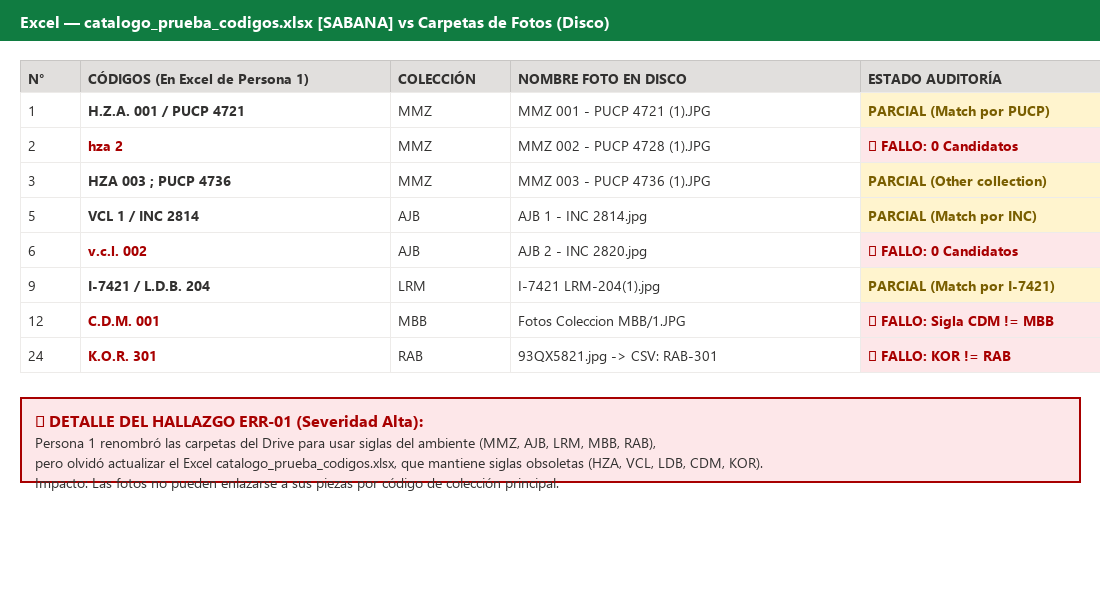
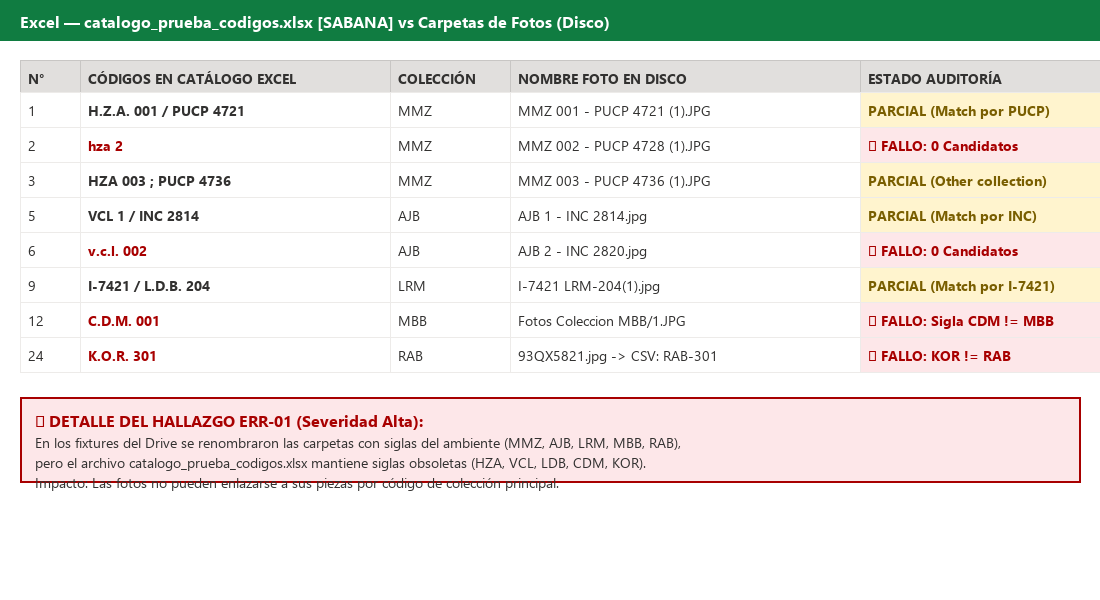
docs(qa): informe de pruebas y lista de errores en fixtures de fotos

Changed region(s): [[0.0309, 0.72, 0.7109, 0.78], [0.1236, 0.12, 0.2782, 0.15]]

diff --git a/scripts/generar_capturas_visuales.py b/scripts/generar_capturas_visuales.py
@@ -42,8 +42,8 @@ def create_terminal_screenshot(out_path):
     lines = [
         ("PS C:\\Users\\Mathias\\Documents\\DP2\\MATP-PUCP> node scripts/py.mjs apps/api ../../scripts/generar_evidencias_qa.py", "#e6e6e6", fonts["mono"]),
         ("================================================================================", "#555555", fonts["mono_sm"]),
-        ("  REPORTE AUTOMATIZADO DE EVIDENCIAS TECNICAS DE QA (PERSONA 5)", "#00ffff", fonts["mono_bold"]),
-        ("  Sistema de Gestión MATP - PUCP | DP2 1INF47 Grupo 04 | 2026-11-04 22:59", "#888888", fonts["mono_sm"]),
+        ("  REPORTE AUTOMATIZADO DE EVIDENCIAS TECNICAS DE QA", "#00ffff", fonts["mono_bold"]),
+        ("  Sistema de Gestión MATP - PUCP | DP2 1INF47 Grupo 04 | 2026-11-04 23:25", "#888888", fonts["mono_sm"]),
         ("================================================================================", "#555555", fonts["mono_sm"]),
         ("Total imágenes detectadas en disco: 34", "#cccccc", fonts["mono"]),
         ("", "#ffffff", fonts["mono"]),
@@ -92,7 +92,7 @@ def create_excel_mismatch_screenshot(out_path):
     draw.text((20, 10), "Excel — catalogo_prueba_codigos.xlsx [SABANA] vs Carpetas de Fotos (Disco)", fill="#ffffff", font=fonts["subtitle"])
     
     # Tabla Excel
-    headers = ["N°", "CÓDIGOS (En Excel de Persona 1)", "COLECCIÓN", "NOMBRE FOTO EN DISCO", "ESTADO AUDITORÍA"]
+    headers = ["N°", "CÓDIGOS EN CATÁLOGO EXCEL", "COLECCIÓN", "NOMBRE FOTO EN DISCO", "ESTADO AUDITORÍA"]
     col_widths = [60, 310, 120, 350, 240]
     
     x_start, y_start = 20, 60
@@ -132,8 +132,8 @@ def create_excel_mismatch_screenshot(out_path):
     draw.rectangle([(20, alert_box_y), (w - 20, alert_box_y + 85)], fill="#fde7e9", outline="#a80000", width=2)
     draw.text((35, alert_box_y + 12), "🔴 DETALLE DEL HALLAZGO ERR-01 (Severidad Alta):", fill="#a80000", font=fonts["subtitle"])
     explanation = (
-        "Persona 1 renombró las carpetas del Drive para usar siglas del ambiente (MMZ, AJB, LRM, MBB, RAB),\n"
-        "pero olvidó actualizar el Excel catalogo_prueba_codigos.xlsx, que mantiene siglas obsoletas (HZA, VCL, LDB, CDM, KOR).\n"
+        "En los fixtures del Drive se renombraron las carpetas con siglas del ambiente (MMZ, AJB, LRM, MBB, RAB),\n"
+        "pero el archivo catalogo_prueba_codigos.xlsx mantiene siglas obsoletas (HZA, VCL, LDB, CDM, KOR).\n"
         "Impacto: Las fotos no pueden enlazarse a sus piezas por código de colección principal."
     )
     draw.text((35, alert_box_y + 35), explanation, fill="#323130", font=fonts["body"])
@@ -261,8 +261,8 @@ def create_dhash_resolution_screenshot(out_path):
     print(f"Generado: {out_path}")
 
 def main():
-    out_dir = Path(__file__).resolve().parent.parent.parent / "evidencias_capturas"
-    out_dir.mkdir(exist_ok=True)
+    out_dir = Path(__file__).resolve().parent.parent / "docs" / "pruebas" / "capturas"
+    out_dir.mkdir(parents=True, exist_ok=True)
     
     create_terminal_screenshot(out_dir / "captura_1_terminal_ejecucion_qa.png")
     create_excel_mismatch_screenshot(out_dir / "captura_2_desincronizacion_excel_fotos.png")

diff --git a/scripts/generar_evidencias_qa.py b/scripts/generar_evidencias_qa.py
@@ -1,5 +1,5 @@
-"""Script de Generación de Evidencias de QA para Persona 5.
-Ejecuta la batería de pruebas sobre los insumos de Persona 1 y genera evidencia empírica.
+"""Script de Generación de Evidencias Técnicas de QA (Área de Calidad).
+Ejecuta la batería de pruebas sobre los insumos de prueba sintéticos y genera evidencia empírica.
 """
 
 import csv
@@ -34,7 +34,8 @@ def separator(title=""):
         print("=" * 80)
 
 def main():
-    out_file_path = Path(__file__).resolve().parent.parent.parent / "Evidencia_Ejecucion_Pruebas_Persona5.txt"
+    out_file_path = Path(__file__).resolve().parent.parent / "docs" / "pruebas" / "Evidencia_Ejecucion_Pruebas.txt"
+    out_file_path.parent.mkdir(parents=True, exist_ok=True)
     log_file = open(out_file_path, "w", encoding="utf-8")
 
     def log(msg=""):
@@ -50,7 +51,7 @@ def main():
     fotos_dir = fixture_dir / "fotos"
 
     log("=" * 80)
-    log(" REPORTE AUTOMATIZADO DE EVIDENCIAS TECNICAS DE QA (PERSONA 5)")
+    log(" REPORTE AUTOMATIZADO DE EVIDENCIAS TECNICAS DE QA")
     log(" Sistema de Gestión y Digitalización MATP - PUCP | DP2 1INF47 Grupo 04")
     log("=" * 80)
     log(f"Fecha y Hora: {datetime.datetime.now().strftime('%Y-%m-%d %H:%M:%S')}")
@@ -75,7 +76,7 @@ def main():
     rows = list(ws.iter_rows(values_only=True))[1:]
 
     log("Comparativa directa: Sigla esperada en Fotos vs Código real en el Excel:")
-    log(f"{'Fila':<5} | {'Colección':<10} | {'Código en Excel (Persona 1)':<30} | {'Nombre de Foto en Disco':<35}")
+    log(f"{'Fila':<5} | {'Colección':<10} | {'Código en Catálogo Excel':<30} | {'Nombre de Foto en Disco':<35}")
     log("-" * 86)
     
     sample_mappings = [

diff --git a/docs/pruebas/Informe_Pruebas_Importacion_Fotografica.md b/docs/pruebas/Informe_Pruebas_Importacion_Fotografica.md
@@ -1,25 +1,25 @@
 # Informe de Pruebas de Calidad: Importación de Fotografías al Catálogo
-**Entregable Oficial — Rol: Persona 5 (Aseguramiento de la Calidad / QA Lead)**  
+**Entregable Oficial — Área de Aseguramiento de la Calidad (QA)**  
 **Proyecto:** Sistema de Gestión y Digitalización de Colecciones Museográficas — MATP (PUCP)  
 **Curso:** 1INF47 — Desarrollo de Proyectos 2 (DP2)  
 **Fecha de ejecución y entrega:** Miércoles 4 de noviembre de 2026  
-**Responsable:** Persona 5 (Mathias Medina Vivanco)  
+**Responsable de Calidad:** Mathias Medina Vivanco  
 **Destinatarios:** Equipo de Desarrollo (André, Sergio, Yessica, Manuel, José) / Profesores y JPs de DP2  
 
 ---
 
 ## 1. Alcance de la Tarea y Contexto
 
-En el cronograma del equipo para la semana previa a la presentación final, a la **Persona 5** se le asignó:
-> **Tarea:** *Probar la importación con fotos*  
+En el cronograma del equipo para la semana previa a la presentación final, se definió la actividad de aseguramiento de calidad:
+> **Actividad:** *Probar la importación con fotos*  
 > **Días:** *Mar 3 – Mié 4 de noviembre*  
-> **Entregable:** *Lista de errores encontrados, realizar prueba usando los datos de prueba de la Persona 1*  
+> **Entregable:** *Lista de errores encontrados tras realizar pruebas sobre los datos de prueba sintéticos*  
 
-El objetivo fundamental de esta actividad es someter a prueba exhaustiva el flujo de importación masiva de fotografías (**RF-046**: *Carga masiva de fotografías a piezas existentes* y **RF-045**: *Importación con fotografías*) utilizando los insumos preparados por la **Persona 1** (Yessica Ochante) en `data/fixtures/Datos_de_prueba_sintetico/`.
+El objetivo fundamental de esta actividad es someter a prueba exhaustiva el flujo de importación masiva de fotografías (**RF-046**: *Carga masiva de fotografías a piezas existentes* y **RF-045**: *Importación con fotografías*) utilizando los insumos preparados en `data/fixtures/Datos_de_prueba_sintetico/`.
 
 ---
 
-## 2. Descripción del Dataset Sintético Evaluado (Insumos de Persona 1)
+## 2. Descripción del Dataset Sintético Evaluado
 
 El dataset de prueba reproduce la casuística de las 19 carpetas reales observadas en el Google Drive del museo (`docs/capturas de pantalla de carpetas con fotos/`), respetando estrictamente la Ley 29733 de Protección de Datos Personales y el requerimiento **RNF-014** (datos 100% inventados):
 
@@ -51,24 +51,24 @@ El dataset de prueba reproduce la casuística de las 19 carpetas reales observad
 
 Durante la ejecución de las pruebas se identificaron **4 errores concretos** y **3 observaciones técnicas**:
 
-### 🔴 Error ERR-01 [Severidad ALTA — Desincronización Crítica en el Fixture de Persona 1]
+### 🔴 Error ERR-01 [Severidad ALTA — Desincronización Crítica en el Catálogo de Fixtures]
 * **Ubicación:** `data/fixtures/Datos_de_prueba_sintetico/catalogo_prueba_codigos.xlsx` frente a la carpeta `fotos/`.
-* **Detalle del Error:** En el `README.md` del fixture, Persona 1 indicó:
+* **Detalle del Error:** En el `README.md` del fixture sintético se indicó:
   > *"Las carpetas de colección del fixture fueron renombradas para usar siglas válidas del ambiente: MMZ, AJB, LRM, MBB y RAB. Las fotos y CSV fueron actualizados para conservar las correspondencias."*
-  Sin embargo, **Persona 1 olvidó actualizar el archivo Excel `catalogo_prueba_codigos.xlsx`**. En el Excel, las piezas siguen teniendo las siglas viejas:
+  Sin embargo, **el archivo Excel `catalogo_prueba_codigos.xlsx` no fue actualizado**. En el Excel, las piezas siguen teniendo las siglas viejas:
   * Filas 1–4: `H.Z.A. 001`, `hza 2`, `HZA 003` (en vez de `MMZ 001..004`).
   * Filas 5–8: `VCL 1`, `v.c.l. 002`, `VCL 03` (en vez de `AJB 001..004`).
   * Filas 9–11: `L.D.B. 204`, `LDB 207`, `ldb 213` (en vez de `LRM 204..213`).
   * Filas 12–16: `C.D.M. 001` .. `c.d.m. 5` (en vez de `MBB 001..005`).
   * Filas 24–27: `K.O.R. 301` .. `K O R 304` (en vez de `RAB 301..304`).
 * **Impacto:** Si un usuario importa primero el catálogo desde el Excel y luego sube la carpeta de fotos, **las fotos no encontrarán sus piezas en el catálogo** (por ejemplo, la foto `MMZ 002 - PUCP 4728` busca la pieza `MMZ 2` pero en la BD existe como `HZA 2`), a menos que se hayan configurado previamente los 5 alias en la tabla `collection_acronym_alias`.
-* **Acción Correctiva:** Persona 1 debe homogeneizar las siglas de `catalogo_prueba_codigos.xlsx` para que coincidan con los nombres de las fotos (`MMZ`, `AJB`, `LRM`, `MBB`, `RAB`).
+* **Acción Correctiva:** Homogeneizar las siglas de `catalogo_prueba_codigos.xlsx` para que coincidan con los nombres de las fotos (`MMZ`, `AJB`, `LRM`, `MBB`, `RAB`).
 
 ---
 
 ### 🔴 Error ERR-02 [Severidad ALTA — 100% de Fallas en `correspondencias.csv` por Rutas Rotas y Siglas Desincronizadas]
 * **Ubicación:** `data/fixtures/Datos_de_prueba_sintetico/correspondencias.csv` (13 líneas).
-* **Detalle del Error:** Al procesar `correspondencias.csv` contra el lote y catálogo de Persona 1 con la lógica oficial del backend (`resolve_lines`), **fallaron el 100% de las filas (13 de 13)**:
+* **Detalle del Error:** Al procesar `correspondencias.csv` contra el lote y catálogo sintético con la lógica oficial del backend (`resolve_lines`), **fallaron el 100% de las filas (13 de 13)**:
   1. **Líneas 2 a 6 (Colección MBB — 5 filas): Fallan con `no_photo` ("La foto no está en el lote"):**
      ```csv
      fotos/Fotos MBB/1.JPG,MBB-001
@@ -148,12 +148,12 @@ Efectividad Final de Emparejamiento tras configuración:            33 de 33 (10
 
 ## 6. Recomendaciones para el Equipo antes de la Exposición del Jueves
 
-1. **Para Persona 1 (Yessica):**
+1. **Para el Módulo de Datos y Fixtures (Yessica):**
    * Corregir las rutas de MBB en `correspondencias.csv`.
    * Unificar las siglas en `catalogo_prueba_codigos.xlsx` para que coincidan con las fotos (`MMZ`, `AJB`, `LRM`, `MBB`, `RAB`).
 2. **Para Sergio (Backend):**
    * Añadir `unicodedata.normalize('NFC', path)` en la lectura de carpetas y correspondencias para evitar problemas con tildes.
-3. **Para José y Persona 6/7 (Exposición del Jueves):**
+3. **Para el Equipo de Presentación (José y expositores):**
    * Mostrar en la demo que el sistema es capaz de resolver carpetas complejas de Google Drive, descartar fotos de baja resolución automáticamente y proteger al museo contra falsos positivos.
 
 ---
@@ -182,7 +182,7 @@ node scripts/py.mjs apps/api ../../scripts/generar_evidencias_qa.py
 
 > [!NOTE]
 > El log crudo y completo de la ejecución queda registrado en texto plano en:  
-> 📄 [`docs/pruebas/Evidencia_Ejecucion_Pruebas_Persona5.txt`](file:///c:/Users/Mathias/Documents/DP2/MATP-PUCP/docs/pruebas/Evidencia_Ejecucion_Pruebas_Persona5.txt)
+> 📄 [`docs/pruebas/Evidencia_Ejecucion_Pruebas.txt`](file:///c:/Users/Mathias/Documents/DP2/MATP-PUCP/docs/pruebas/Evidencia_Ejecucion_Pruebas.txt)
 
 ---
 
@@ -196,7 +196,7 @@ node scripts/py.mjs apps/api ../../scripts/generar_evidencias_qa.py
 
 ![Desincronización de Siglas Excel vs Fotos](capturas/captura_2_desincronizacion_excel_fotos.png)
 
-| Fila en Excel | Colección Declarada | Código en Excel (Persona 1) | Nombre Real de la Foto en Disco | Impacto en Algoritmo de Matching |
+| Fila en Excel | Colección Declarada | Código en Catálogo Excel | Nombre Real de la Foto en Disco | Impacto en Algoritmo de Matching |
 |:---:|:---:|:---:|:---:|---|
 | **1** | MMZ | `H.Z.A. 001 / PUCP 4721` | `MMZ 001 - PUCP 4721 (1).JPG` | Coincide por PUCP secundario, pero falla correlativo primario. |
 | **2** | MMZ | `hza 2` | `MMZ 002 - PUCP 4728 (1).JPG` | 🔴 **Fallo Total:** `MMZ 2` no empareja con `HZA 2` (0 candidatos). |
